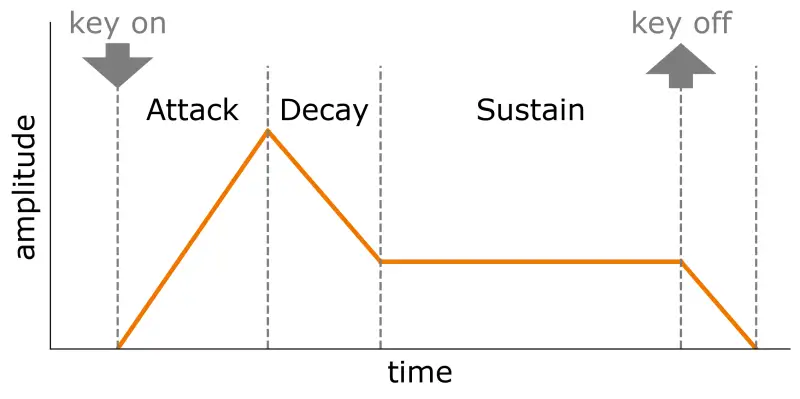
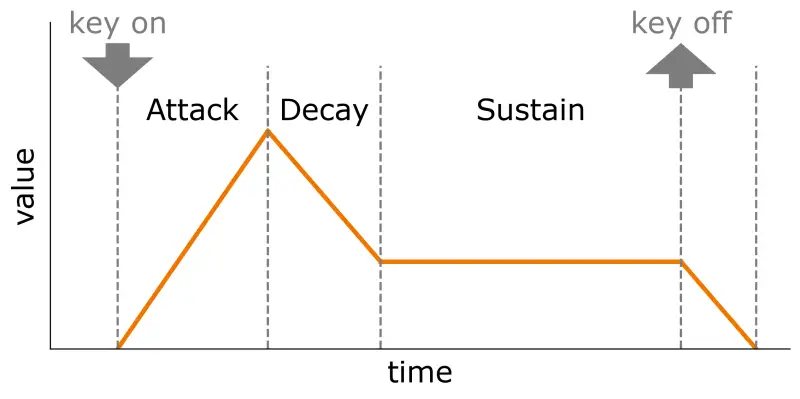
Posts: Envelopes.

Changed region(s): [[0.0, 0.3008, 0.0625, 0.6617]]

diff --git a/_py/posts/synthesis/2022-07-03-envelopes/linear_vs_exponential.py b/_py/posts/synthesis/2022-07-03-envelopes/linear_vs_exponential.py
@@ -29,6 +29,7 @@ def main():
     fig, ax = plt.subplots(1, 2, sharey=True, figsize=(8,4))
     ax[0].plot(linear_envelope, color, linewidth=3)
     ax[0].set_title('Linear')
+    ax[0].set_ylabel('value')
     ax[1].plot(exponential_envelope, color, linewidth=3)
     ax[1].set_title('Exponential')
     for a in ax:
@@ -36,6 +37,7 @@ def main():
         a.spines['top'].set_visible(False)
         a.spines['right'].set_visible(False)
         a.set_yticks([0, 0.5, 1])
+        a.set_xlabel('time')
     output_path = images_path / 'linear_vs_exponential.png'
     plt.savefig(output_path, dpi=300, bbox_inches='tight')
     subprocess.run(['cwebp', '-q', '65', '-resize', '800', '0', output_path, '-o', output_path.with_suffix('.webp')])

diff --git a/_py/posts/synthesis/2022-07-03-envelopes/sine_adsr.py b/_py/posts/synthesis/2022-07-03-envelopes/sine_adsr.py
@@ -58,7 +58,10 @@ def main():
     a = plt.gca()
     a.spines['top'].set_visible(False)
     a.spines['right'].set_visible(False)
-    a.set_yticks([0, 0.5, 1])
+    a.set_yticks([-1, -0.5, 0, 0.5, 1])
+    plt.xticks([])
+    plt.ylabel('amplitude')
+    plt.xlabel('time')
     output_path = images_path / 'sine_adsr.png'
     plt.savefig(output_path, dpi=300, bbox_inches='tight')
     subprocess.run(['cwebp', '-q', '65', '-resize', '800', '0', output_path, '-o', output_path.with_suffix('.webp')])

diff --git a/_py/posts/synthesis/2022-07-03-envelopes/envelope_types.py b/_py/posts/synthesis/2022-07-03-envelopes/envelope_types.py
@@ -46,7 +46,7 @@ def plot_envelope(envelope):
         plt.text(x + segment.length / 2, 1.05, segment.name, horizontalalignment='center')
         x = next_x
     plt.ylim(ylim)
-    plt.ylabel('amplitude')
+    plt.ylabel('value')
     plt.xlabel('time')
     plt.xticks([])
     plt.yticks([])

diff --git a/_posts/synthesis/2022-07-03-envelopes.md b/_posts/synthesis/2022-07-03-envelopes.md
@@ -5,7 +5,7 @@ date: 2022-07-03
 author: Jan Wilczek
 layout: post
 images: /assets/img/posts/synthesis/2022-07-03-envelopes/
-# background: /assets/img/posts/synthesis/2022-07-03-envelopes/Thumbnail.webp
+background: /assets/img/posts/synthesis/2022-07-03-envelopes/sine_adsr.webp
 audio_examples: /assets/wav/posts/synthesis/2022-07-03-envelopes/
 categories:
   - Sound Synthesis
@@ -16,13 +16,13 @@ tags:
   - sampling (sound generation)
 discussion_id: 2022-07-03-envelopes
 ---
-Everything you need for coding your own synthesizer.
+Everything needed on envelopes for coding your own synthesizer.
 
 {% capture _ %}{% increment figureId20220703  %}{% endcapture %}
 
 If you have ever used a synthesizer, you definitely stumbled upon an **envelope**.
 
-Sometimes it is referred to as **contour** or simply **ADSR** (the most popular type of envelope).
+Sometimes it is referred to as **contour** or simply **ADSR** (the most popular type of the envelope).
 
 These synthesizer elements help the musicians and sound designers to effortlessly make the sound more lively, more interesting. They achieve it via automatic control of:
 
@@ -32,13 +32,37 @@ These synthesizer elements help the musicians and sound designers to effortlessl
 
 In this article, you will learn what is an envelope, all the types of envelopes, and what to consider when implementing them.
 
+### Table of Contents
+
+1. [What Is An Envelope?](#what-is-an-envelope)
+2. [What Can an Envelope Control?](#what-can-an-envelope-control)
+   1. [Amplitude Envelope](#amplitude-envelope)
+   2. [Cutoff Envelope](#cutoff-envelope)
+   3. [Frequency Envelope](#frequency-envelope)
+3. [What Are Envelope Generators (EGs)?](#what-are-envelope-generators-egs)
+4. [Applications of Envelopes](#applications-of-envelopes)
+5. [Types of Envelope Segments](#types-of-envelope-segments)
+6. [Linear or Exponential?](#linear-or-exponential)
+7. [The Catalog of Envelopes](#the-catalog-of-envelopes)
+   1. [AD](#ad)
+   2. [AR](#ar)
+   3. [ADR](#adr)
+   4. [ADS](#ads)
+   5. [ADSR](#adsr)
+   6. [AHDSR](#ahdsr)
+   7. [ADBDR](#adbdr)
+   8. [Arbitrary](#arbitrary)
+8. [Summary](#summary)
+9. [Bibliography](#bibliography)
+
 ## What Is An Envelope?
 
 From the digital signal processing (DSP) perspective, **an envelope is a curve that outlines the extremes of a signal** [Pluta2019].
 
 As such, it relates to the _analysis_ of the signal: we have a waveform, we connect its peaks and obtain an envelope.
 
-<!-- TODO: Plot envelope of a sine -->
+![]({{ page.images | absolute_url | append: "sine_adsr.webp" }}){: alt="" }
+_Figure {% increment figureId20220703  %}. ._
 
 From the sound synthesis perspective, **an envelope is a curve that controls a certain parameter of the generated signal.**
 
@@ -139,12 +163,12 @@ The segments are crude approximations to the natural envelopes but they represen
 
 The following is a comprehensive (to my best knowledge) list of envelope segment types:
 
-* Delay: the amount of time between the _note-on_ event and the start of the attack segment. Delaying the appearance of sound after a key-press is especially important in ambient music, where the musician can use this time to adjust the timbre parameters. We can control the length of this delay.
-* Attack: the initial portion of every envelope after a _note-on_ event. In this segment the value is rising from 0 (minimum envelope value) to 1 (maximum envelope value). When we "control the attack" we change the duration of this segment.
-* Hold: a segment where the envelope value is 1; by controlling its length, we adjust how long will the controlled parameter be at its peak value.
-* Decay: the segment where the envelope falls from the peak value to the initial sustain value. The value change is faster (more dynamic) than in the sustain (or "decay 2") phase. We can control its length.
-* Sustain: the segment where the envelope maintains a constant level until a _note-off_ event. We set the value of this level but its length is controlled by the performer.
-* Release: the final segment of any envelope, where the value falls from its current value to 0.
+* **Delay:** the amount of time between the _note-on_ event and the start of the attack segment. Delaying the appearance of sound after a key-press is especially important in ambient music, where the musician can use this time to adjust the timbre parameters. We can control the length of this delay.
+* **Attack:** the initial portion of every envelope after a _note-on_ event. In this segment the value is rising from 0 (minimum envelope value) to 1 (maximum envelope value). When we "control the attack" we change the duration of this segment.
+* **Hold:** a segment where the envelope value is 1; by controlling its length, we adjust how long will the controlled parameter be at its peak value.
+* **Decay:** the segment where the envelope falls from the peak value to the initial sustain value. The value change is faster (more dynamic) than in the sustain (or "decay 2") phase. We can control its length.
+* **Sustain:** the segment where the envelope maintains a constant level until a _note-off_ event. We set the value of this level but its length is controlled by the performer.
+* **Release:** the final segment of any envelope, where the value falls from its current value to 0.
 
 ## Linear or Exponential?
 
@@ -161,11 +185,11 @@ Each one plays a sine at 220 Hz.
 
 This one has the linear attack envelope (left in Figure ???).
 
-{% include embed-audio.html src="assets/wav/posts/synthesis/2022-07-03-envelopes/linear.flac" %}
+{% include embed-audio.html src="/assets/wav/posts/synthesis/2022-07-03-envelopes/linear.flac" %}
 
 This one has the exponential attack envelope (right in Figure ???).
 
-{% include embed-audio.html src="assets/wav/posts/synthesis/2022-07-03-envelopes/exponential.flac" %}
+{% include embed-audio.html src="/assets/wav/posts/synthesis/2022-07-03-envelopes/exponential.flac" %}
 
 Which change sounds more "linearly" to you?
 
@@ -176,6 +200,8 @@ In the linear envelope case, I can hear the sound instantaneously and then it be
 This applies to amplitude envelopes, what about cutoff or frequency envelopes?
 
 As our perception of frequency is logarithmic as well, these envelopes should also use exponential segments to make the impression of a linear change.
+
+**Warning:** Although most depictions of envelope show linear segments not exponential segment, in fact, an exponential change is meant. So it is in every depiction of an envelope in this article.
 
 After learning the building blocks of envelopes, now it is time to see what types of envelope are out there.
 

diff --git a/_posts/synthesis/2022-06-26-sine-saw-square-triangle-pulse-basic-waveforms-in-synthesis.md b/_posts/synthesis/2022-06-26-sine-saw-square-triangle-pulse-basic-waveforms-in-synthesis.md
@@ -154,7 +154,7 @@ The amplitudes of square's harmonics decay slower than in the case of the triang
 
 The **sawtooth** (or simply **"saw"**) waveform is my favorite waveform, thanks to its rich, "fat" sound that plays incredibly well with a good low-pass filter.
 
-The sawtooth wave atr 220 Hz sounds like this:
+The sawtooth wave at 220 Hz sounds like this:
 
 {% include embed-audio.html src="/assets/wav/posts/synthesis/2022-06-26-sine-saw-square-triangle-basic-waveforms-in-synthesis/sawtooth_example.flac" %}
 
